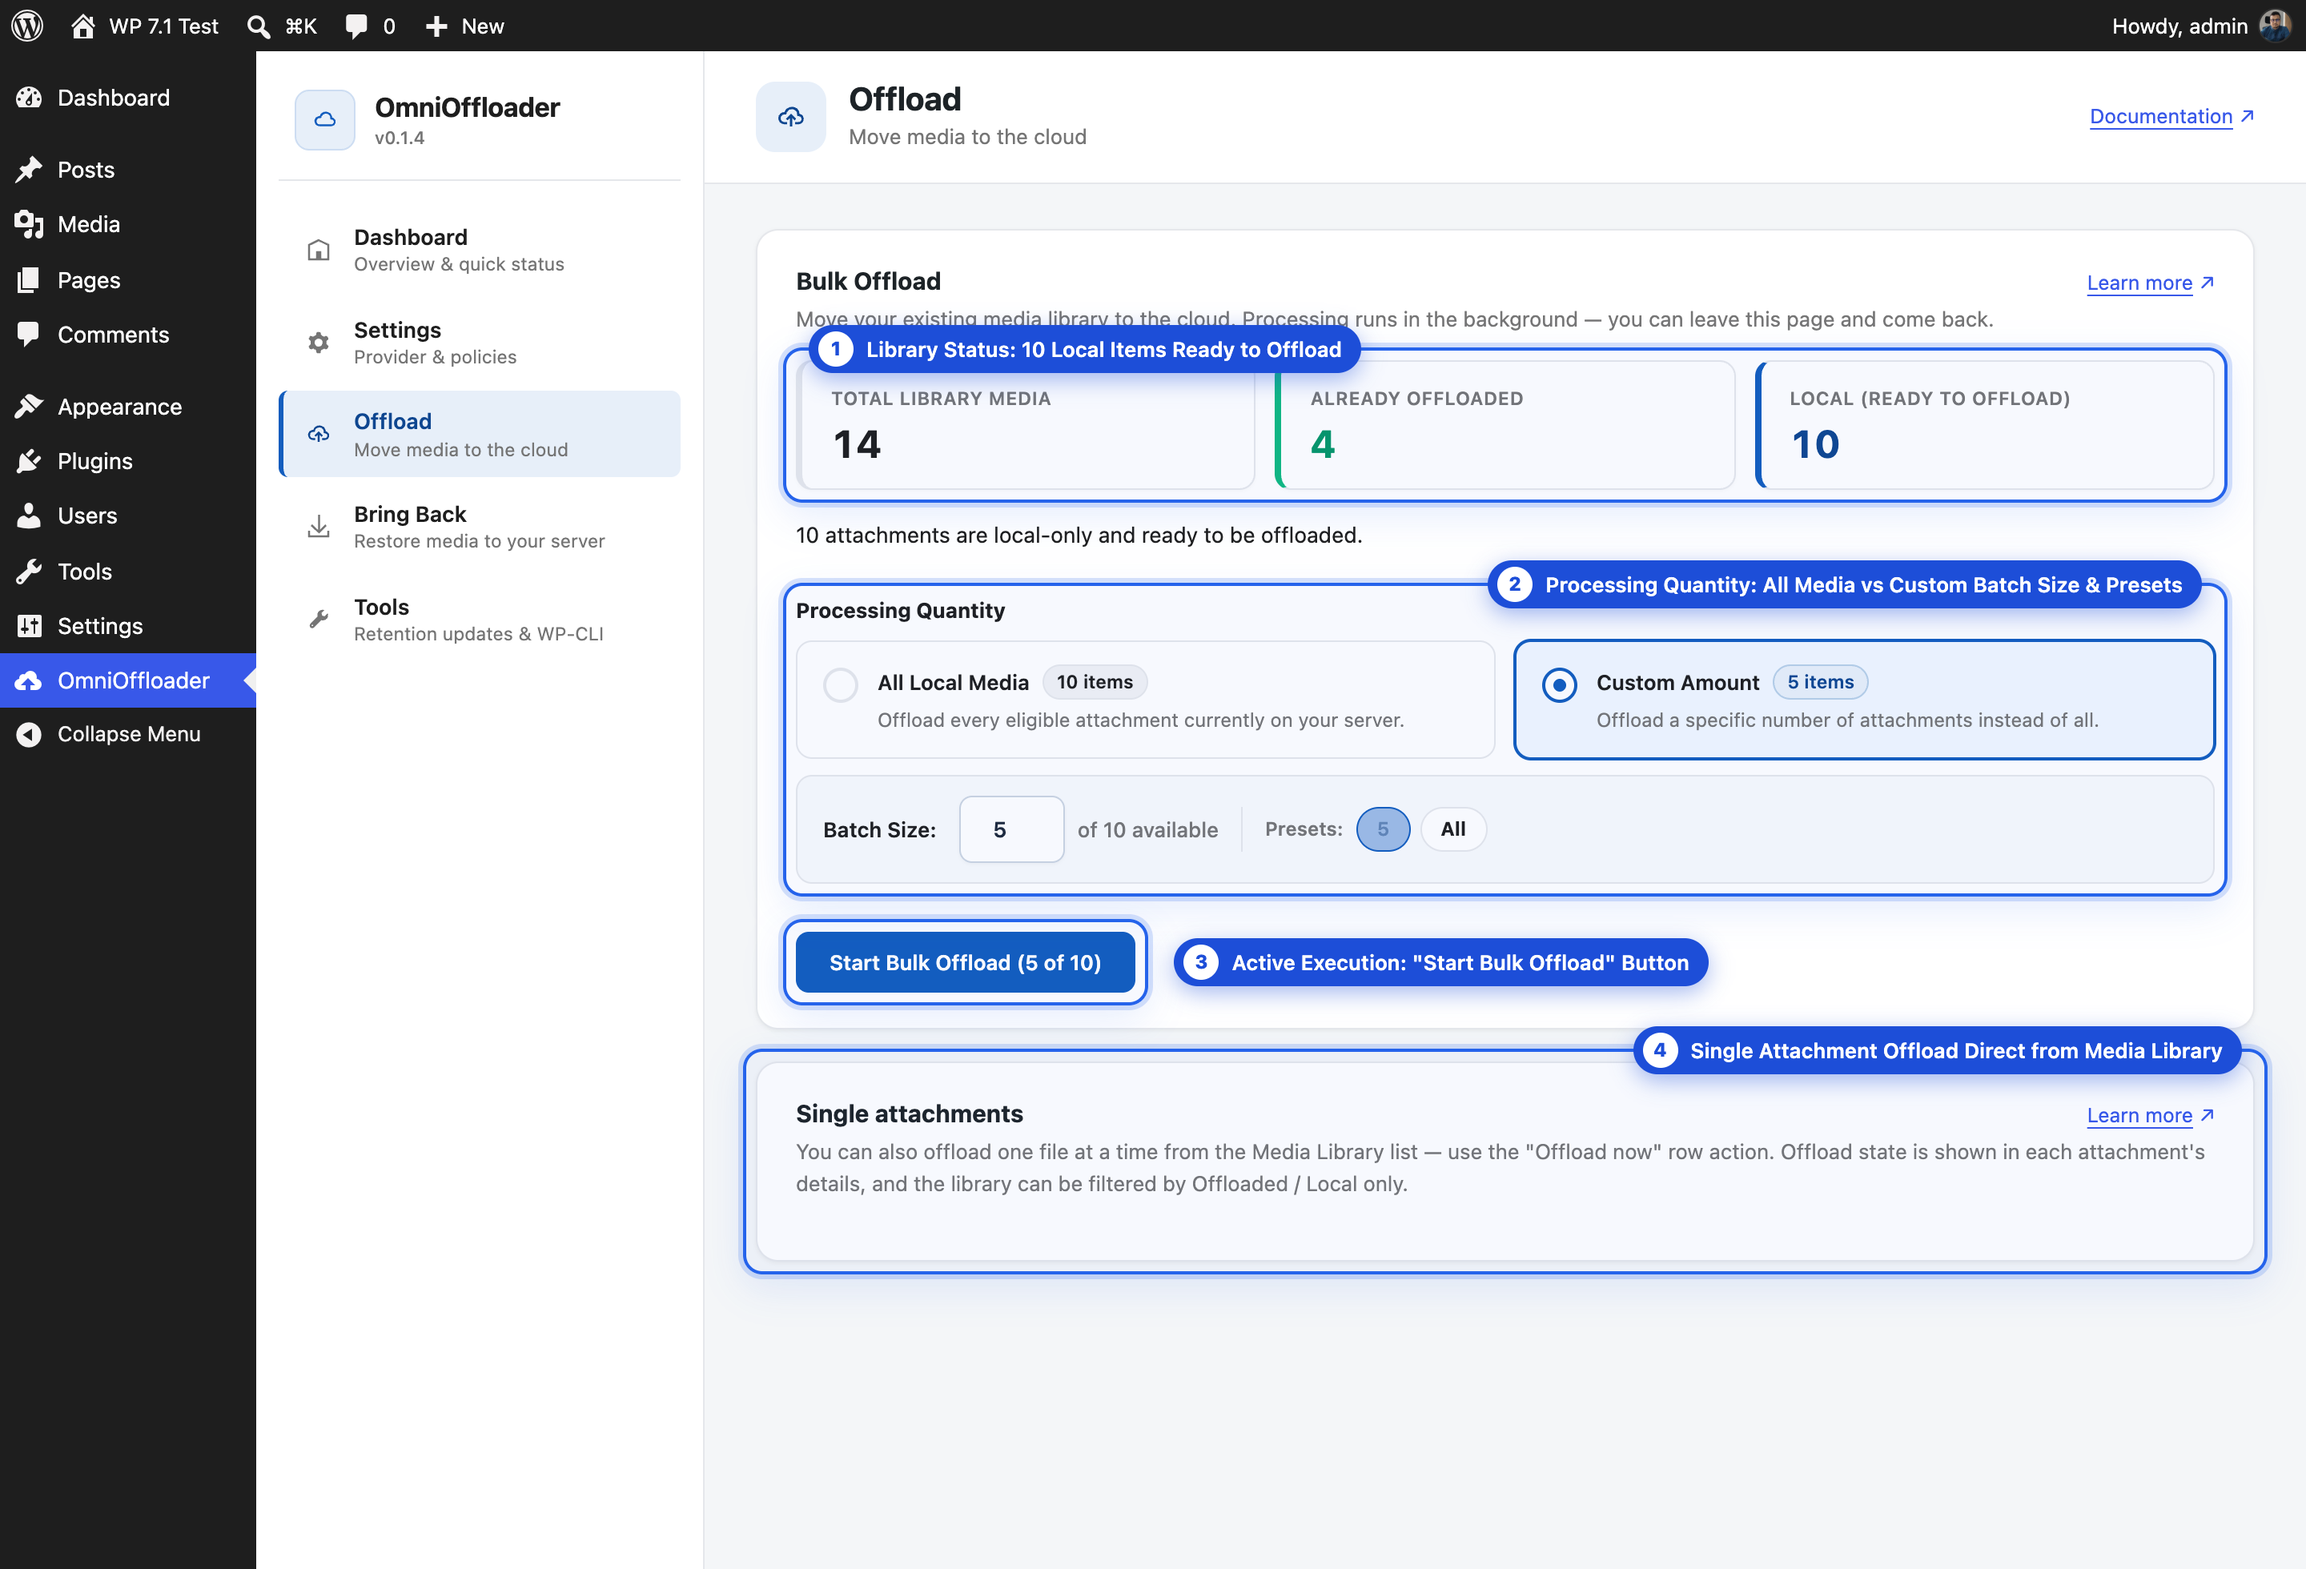
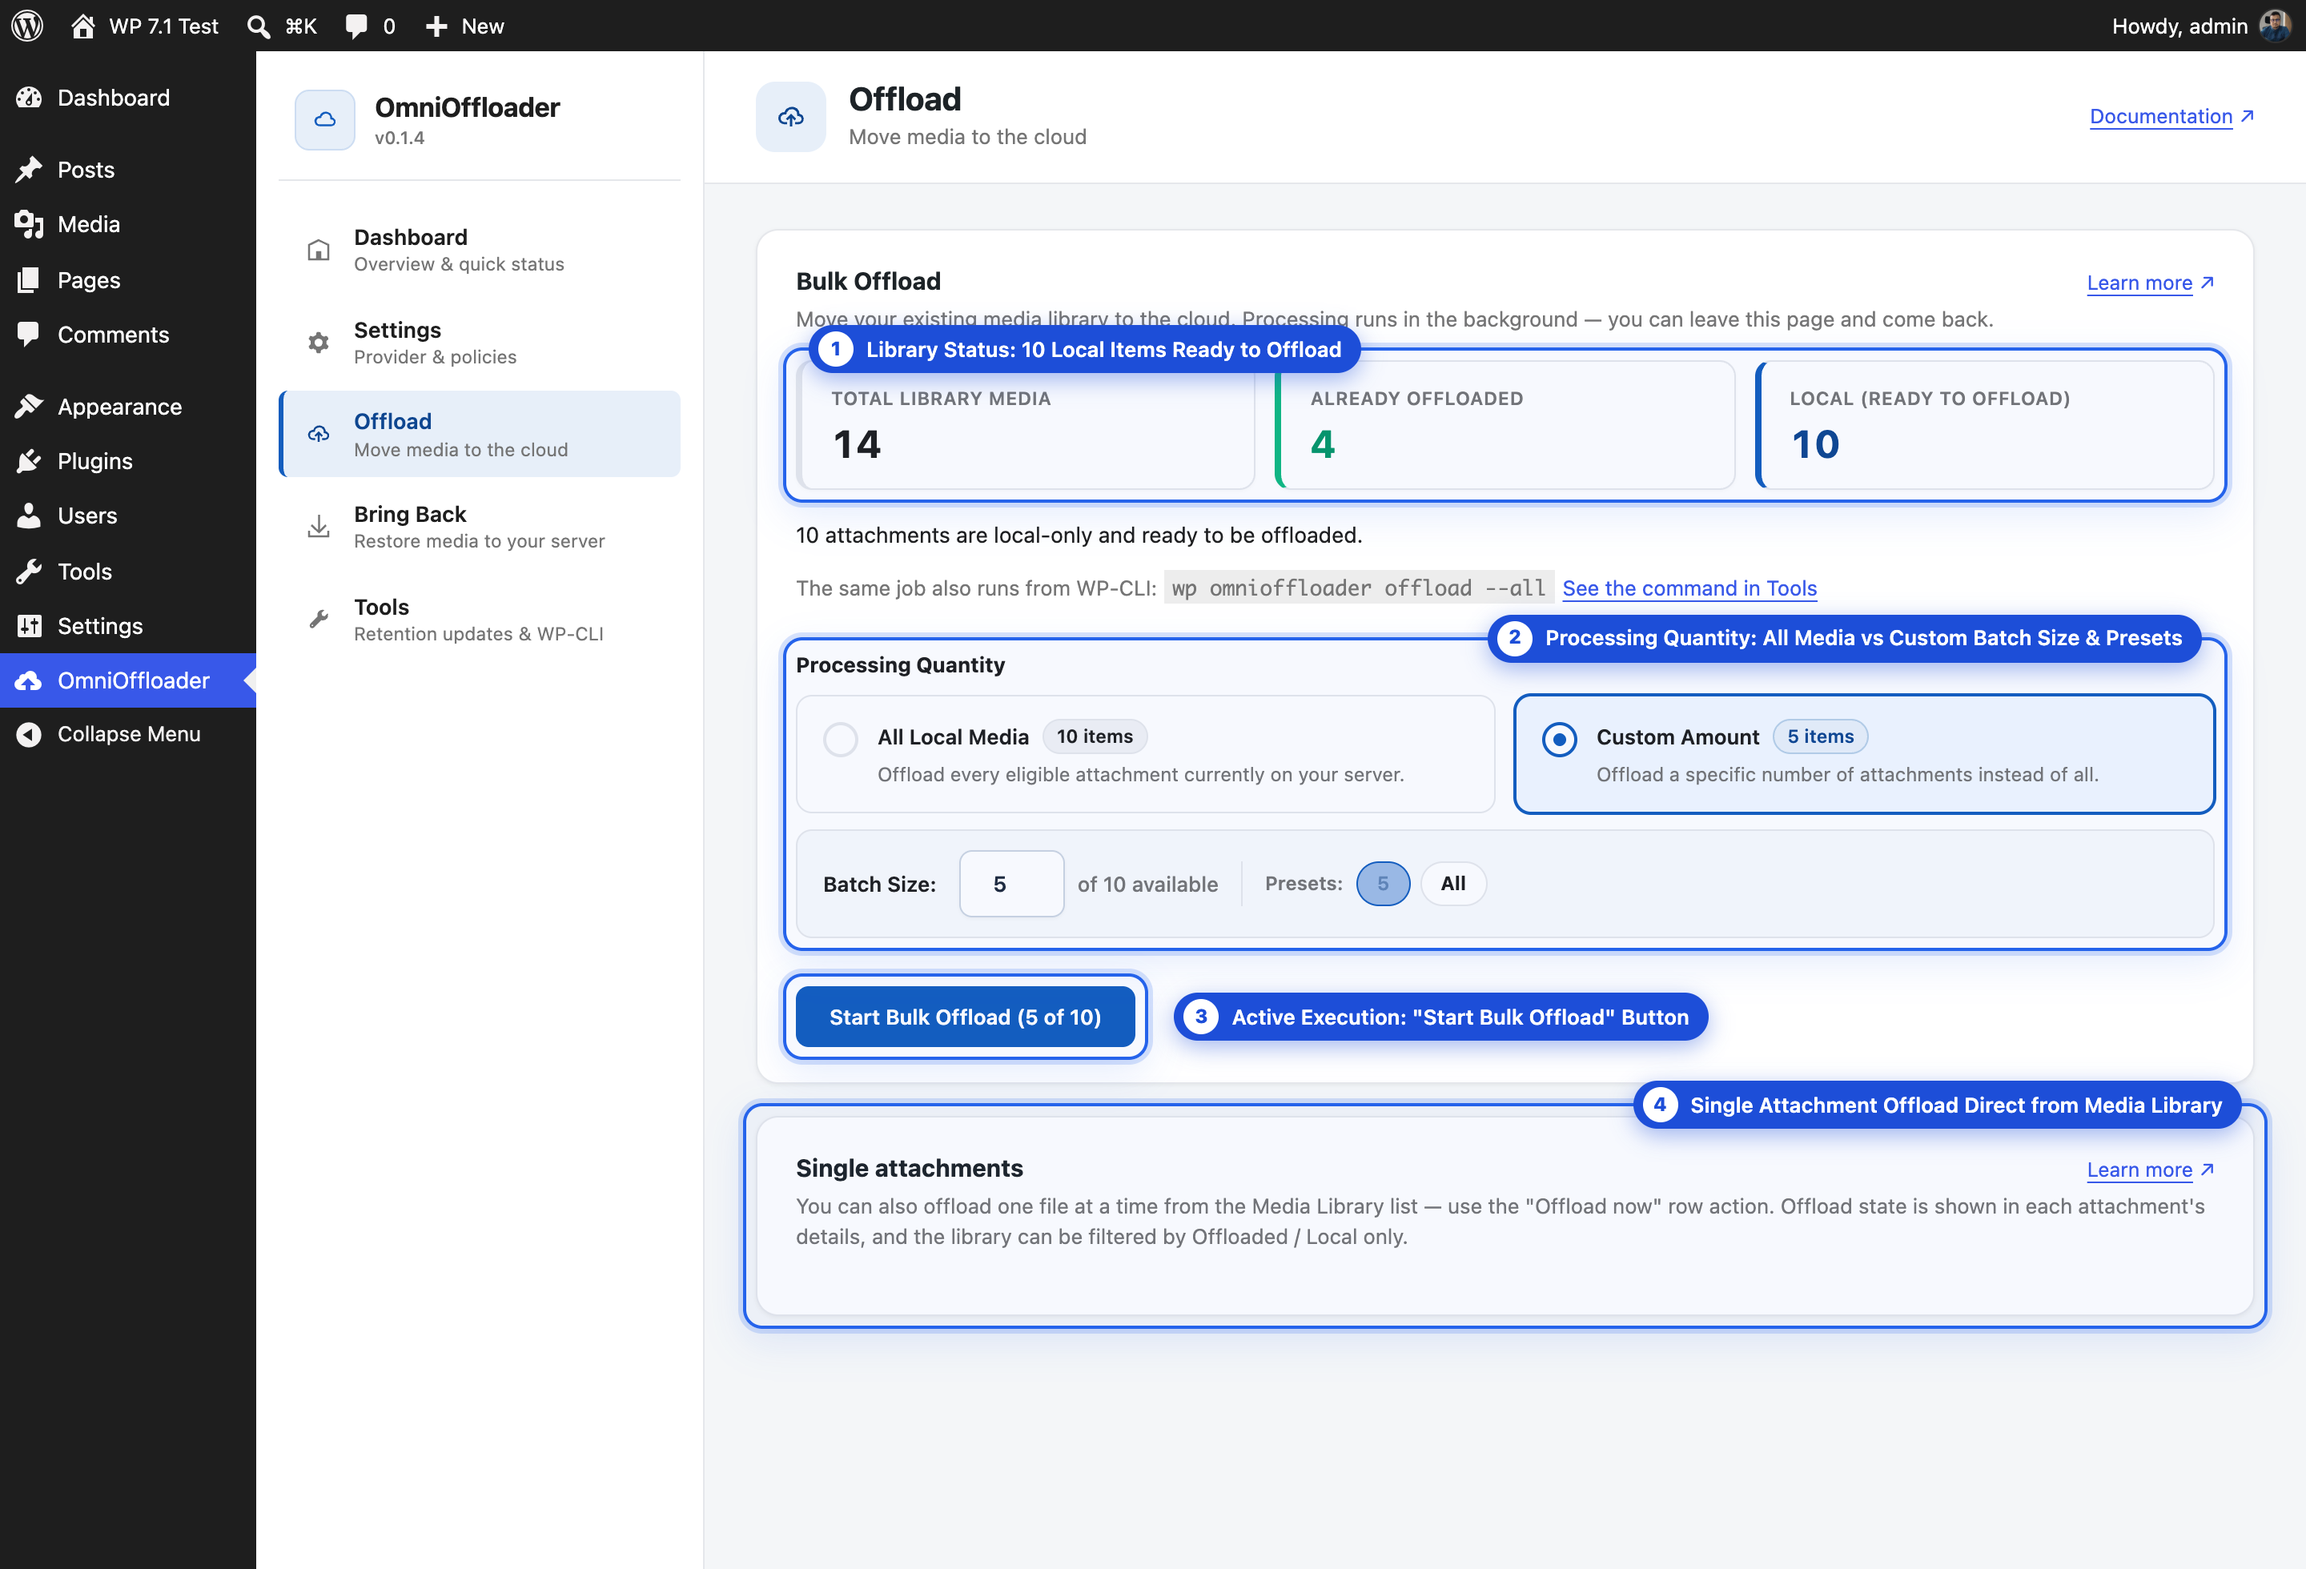
feat(admin): Offload and Bring Back link to their WP-CLI command in Tools
- CliHint (shared): the page's command, plus "See the command in Tools",
  which opens the Tools WP-CLI reference at that command. Shown whenever
  there is something to do; libraries of 5,000+ keep the "Large
  library?" wording. Replaces the hint duplicated on the two pages.
- Each command section of the WP-CLI reference has an id
  (cliSectionId(): omnioffloader-cli-offload, -restore, …) and takes
  focus.
- revealSection waits until the section exists and the page has been
  unchanged for 250 ms, then jumps once: the reference renders at once,
  and cards above it loading later pushed an early jump 750 px down
  (and the page-title focus took focus back).
- Docs (bulk-offload, bring-back, wp-cli overview) and the 0.1.4
  changelog; bulk-offload and bring-back screenshots (WordPress.org 4
  and 5) retaken with the hint.

Changed region(s): [[0.3125, 0.3423, 1.0, 0.8714]]

diff --git a/src/utils/revealSection.ts b/src/utils/revealSection.ts
@@ -1,6 +1,9 @@
 /** How long to wait for a section that renders after its data loads. */
 const WAIT_MS = 10000;
 
+/** How long the page must stay unchanged before the jump. */
+const QUIET_MS = 250;
+
 /** Space left between the covering bars and the section. */
 const GAP = 16;
 
@@ -23,14 +26,33 @@ function coveredTop(): number {
 }
 
 /**
- * Jump to a section and move focus to it. Cards often render only once their
- * data has loaded, so this waits for the element to appear.
+ * Jump to a section and move focus to it, once the page has settled: the
+ * section exists and nothing has changed for a moment. Cards render after
+ * their data loads, either the section itself or cards above it that would
+ * push it down after an early jump.
  *
  * @param id Element id of the section.
  * @return Stops waiting (for an effect cleanup).
  */
 export function revealSection( id: string ): () => void {
-	const reveal = ( element: HTMLElement ) => {
+	let quiet = 0;
+	let timer = 0;
+
+	const stop = () => {
+		observer.disconnect();
+		window.clearTimeout( quiet );
+		window.clearTimeout( timer );
+	};
+
+	const settle = () => {
+		const element = document.getElementById( id );
+
+		// Not rendered yet: wait for the next change.
+		if ( ! element ) {
+			return;
+		}
+
+		stop();
 		window.scrollTo(
 			0,
 			element.getBoundingClientRect().top +
@@ -42,28 +64,13 @@ export function revealSection( id: string ): () => void {
 		element.focus( { preventScroll: true } );
 	};
 
-	const element = document.getElementById( id );
-
-	if ( element ) {
-		reveal( element );
-		return () => {};
-	}
-
-	let timer = 0;
 	const observer = new MutationObserver( () => {
-		const found = document.getElementById( id );
-
-		if ( found ) {
-			stop();
-			reveal( found );
-		}
+		window.clearTimeout( quiet );
+		quiet = window.setTimeout( settle, QUIET_MS );
 	} );
-	const stop = () => {
-		observer.disconnect();
-		window.clearTimeout( timer );
-	};
 
 	observer.observe( document.body, { childList: true, subtree: true } );
+	quiet = window.setTimeout( settle, QUIET_MS );
 	timer = window.setTimeout( stop, WAIT_MS );
 
 	return stop;

diff --git a/src/pages/BringBack.tsx b/src/pages/BringBack.tsx
@@ -8,18 +8,22 @@ import {
 	type ScopeMode,
 } from '../components/ui/BatchScopeSelector';
 import { Card } from '../components/ui/Card';
+import { CliHint } from '../components/ui/CliHint';
 import { useConfirm } from '../components/ui/ConfirmDialog';
 import { ProgressBar } from '../components/ui/ProgressBar';
 import { RunAnnouncer } from '../components/ui/RunAnnouncer';
 import { useCore } from '../context/CoreContext';
-import { LARGE_LIBRARY } from '../utils/constants';
 import { useBringBack } from '../hooks/useBringBack';
 import { formatBytes } from '../utils/formatBytes';
 import { radioKeyDown, radioTabIndex } from '../utils/radioGroup';
 
 const DELETE_CLOUD_OPTIONS: readonly boolean[] = [ false, true ];
 
-export function BringBackPage() {
+interface BringBackProps {
+	onNavigate: ( view: string, section?: string ) => void;
+}
+
+export function BringBackPage( { onNavigate }: BringBackProps ) {
 	const { stats, savedSettings: settings } = useCore();
 	const askConfirm = useConfirm();
 	const { preflight, state, busy, start, cancel, showProgress, dismiss } =
@@ -253,14 +257,13 @@ export function BringBackPage() {
 								</p>
 							) }
 
-							{ offloadedCount >= LARGE_LIBRARY && (
-								<p className="smowp-muted">
-									{ __(
-										'Large library? Running this from WP-CLI is usually faster and needs no open browser tab:',
-										'omnioffloader'
-									) }{ ' ' }
-									<code>wp omnioffloader restore --all</code>
-								</p>
+							{ offloadedCount > 0 && (
+								<CliHint
+									command="restore"
+									example="wp omnioffloader restore --all"
+									count={ offloadedCount }
+									onNavigate={ onNavigate }
+								/>
 							) }
 
 							{ preflight && offloadedCount > 0 && (

diff --git a/src/pages/Offload.tsx b/src/pages/Offload.tsx
@@ -8,13 +8,17 @@ import {
 	type ScopeMode,
 } from '../components/ui/BatchScopeSelector';
 import { Card } from '../components/ui/Card';
+import { CliHint } from '../components/ui/CliHint';
 import { ProgressBar } from '../components/ui/ProgressBar';
 import { RunAnnouncer } from '../components/ui/RunAnnouncer';
 import { useCore } from '../context/CoreContext';
-import { LARGE_LIBRARY } from '../utils/constants';
 import { useBulkOffload } from '../hooks/useBulkOffload';
 
-export function OffloadPage() {
+interface OffloadProps {
+	onNavigate: ( view: string, section?: string ) => void;
+}
+
+export function OffloadPage( { onNavigate }: OffloadProps ) {
 	const { stats } = useCore();
 	const { state, busy, start, cancel, showProgress, dismiss } =
 		useBulkOffload();
@@ -211,14 +215,13 @@ export function OffloadPage() {
 								</p>
 							) }
 
-							{ localCount >= LARGE_LIBRARY && (
-								<p className="smowp-muted">
-									{ __(
-										'Large library? Running this from WP-CLI is usually faster and needs no open browser tab:',
-										'omnioffloader'
-									) }{ ' ' }
-									<code>wp omnioffloader offload --all</code>
-								</p>
+							{ localCount > 0 && (
+								<CliHint
+									command="offload"
+									example="wp omnioffloader offload --all"
+									count={ localCount }
+									onNavigate={ onNavigate }
+								/>
 							) }
 
 							{ localCount > 0 && (

diff --git a/src/components/ui/CliHint.tsx b/src/components/ui/CliHint.tsx
@@ -1,0 +1,47 @@
+import { Button } from '@wordpress/components';
+import { __ } from '@wordpress/i18n';
+
+import { cliSectionId } from '../tools/CliReference';
+import { LARGE_LIBRARY } from '../../utils/constants';
+
+interface CliHintProps {
+	/** Command name after `wp omnioffloader`, e.g. 'offload'. */
+	command: string;
+	/** Example to show, e.g. 'wp omnioffloader offload --all'. */
+	example: string;
+	/** Attachments the job would handle; a large library gets a stronger hint. */
+	count: number;
+	onNavigate: ( view: string, section?: string ) => void;
+}
+
+/**
+ * The WP-CLI command for a bulk job, with a link to its entry in the Tools
+ * page's WP-CLI reference.
+ */
+export function CliHint( {
+	command,
+	example,
+	count,
+	onNavigate,
+}: CliHintProps ) {
+	return (
+		<p className="smowp-muted">
+			{ count >= LARGE_LIBRARY
+				? __(
+						'Large library? Running this from WP-CLI is usually faster and needs no open browser tab:',
+						'omnioffloader'
+					)
+				: __(
+						'The same job also runs from WP-CLI:',
+						'omnioffloader'
+					) }{ ' ' }
+			<code>{ example }</code>{ ' ' }
+			<Button
+				variant="link"
+				onClick={ () => onNavigate( 'tools', cliSectionId( command ) ) }
+			>
+				{ __( 'See the command in Tools', 'omnioffloader' ) }
+			</Button>
+		</p>
+	);
+}

diff --git a/src/components/tools/CliReference.tsx b/src/components/tools/CliReference.tsx
@@ -522,6 +522,15 @@ function getBackgroundSteps(): CliExample[] {
 	];
 }
 
+/**
+ * Element id of a command's section, so other pages can link straight to it.
+ *
+ * @param command Command name after `wp omnioffloader`, e.g. 'offload'.
+ */
+export function cliSectionId( command: string ): string {
+	return `omnioffloader-cli-${ command }`;
+}
+
 interface CommandRowProps {
 	example: CliExample;
 	onCopy: ( command: string ) => void;
@@ -616,7 +625,14 @@ export function CliReference( { onNavigate }: CliReferenceProps ) {
 				</section>
 
 				{ getCommands().map( ( cmd ) => (
-					<section key={ cmd.name } className="smowp-cli__command">
+					<section
+						key={ cmd.name }
+						id={ cliSectionId(
+							cmd.name.replace( 'wp omnioffloader ', '' )
+						) }
+						tabIndex={ -1 }
+						className="smowp-cli__command"
+					>
 						<div className="smowp-cli__head">
 							<code className="smowp-cli__name">
 								{ cmd.name }

diff --git a/src/App.tsx b/src/App.tsx
@@ -90,10 +90,10 @@ export function App() {
 			page = <SettingsPage onNavigate={ navigate } />;
 			break;
 		case 'offload':
-			page = <OffloadPage />;
+			page = <OffloadPage onNavigate={ navigate } />;
 			break;
 		case 'bring-back':
-			page = <BringBackPage />;
+			page = <BringBackPage onNavigate={ navigate } />;
 			break;
 		case 'tools':
 			page = <ToolsPage onNavigate={ navigate } />;

diff --git a/src/index.scss b/src/index.scss
@@ -407,8 +407,10 @@
 	font-size: 12.5px;
 }
 
-// A card a link brings into view takes focus; no ring on the whole card.
-.smowp-card[id]:focus {
+// A card or WP-CLI command a link brings into view takes focus; no ring
+// on the whole section.
+.smowp-card[id]:focus,
+.smowp-cli__command[id]:focus {
 	outline: none;
 }
 

diff --git a/docs/src/content/docs/wp-cli/index.md b/docs/src/content/docs/wp-cli/index.md
@@ -23,7 +23,7 @@ The same reference, with copy buttons, is on the **OmniOffloader → Tools** scr
 
 ## When to use WP-CLI
 
-- **Large libraries.** A terminal command is not limited by the browser or by short web request time limits. On libraries of 5,000 items or more, the Bulk Offload and Bring Back screens suggest the matching command. For tens of thousands of items, add [`--concurrency`](/wp-cli/offload/) to upload many files at once.
+- **Large libraries.** A terminal command is not limited by the browser or by short web request time limits. The Bulk Offload and Bring Back screens show the matching command, with a link to it in the WP-CLI reference on the Tools screen, and recommend it for libraries of 5,000 items or more. For tens of thousands of items, add [`--concurrency`](/wp-cli/offload/) to upload many files at once.
 - **SSH access.** You can run a job on the server directly and watch a progress bar.
 - **Long jobs.** Start it with `nohup … &` and close the terminal; the job keeps going and writes its progress to a log file. See [Long runs and log files](/wp-cli/long-runs/).
 - **Scheduled work.** Use `--limit` with a cron job to work through a big library in small chunks, for example 500 attachments each night.
